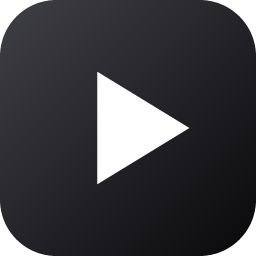
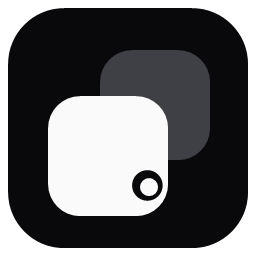
v7.0.7: one client at a time, Chrome app window, check-ban window
- one Roblox client at a time: multi-instance is forced off (it held the Roblox lock and let extra clients start)
- manager window runs in Chrome (Edge as fallback) in its own profile; the stale-window cleanup only touches that profile
- black title bar on the manager window (DWM caption), re-applied while the window lives
- Check ban button: one separate login window, nothing added to the list; refuses while another login window is open
- sidebar reads "Roblox installed" (install detection, not "running")
- new icon for the exe and the tab
- stats and table skip redraws when nothing changed, and pause while the window is minimized

Claude-Session: https://claude.ai/code/session_01BRhqfRxeUgekckbC3yuMAz

diff --git a/public/app.js b/public/app.js
@@ -223,8 +223,8 @@ function connect() {
 }
 call('/ui/logs').then((l) => logs.push(...l)).catch(() => {});
 connect();
-setInterval(() => { if (S && !S.locked) { renderStats(); renderAfk(); } }, 1000);
-setInterval(() => { if (S && !S.locked) renderTable(); }, 10000);
+setInterval(() => { if (S && !S.locked && !document.hidden) { renderStats(); renderAfk(); } }, 1000);
+setInterval(() => { if (S && !S.locked && !document.hidden) renderTable(); }, 10000);
 
 function render() {
   $('#lock').classList.toggle('hidden', !S.locked);
@@ -266,12 +266,20 @@ function renderNav() {
 
 function renderSide() {
   const m = S.launcher.multi;
-  const multi = !m || !m.wanted ? ['', 'Multi-instance off'] : m.mutex === 'held' ? ['ok', 'Multi-instance active'] : ['warn', 'Multi-instance waiting'];
+  const multi = ['ok', 'One client at a time'];
   const wd = S.settings.watchdog.enabled;
   $('#side-status').innerHTML = `
     <div class="row" title="${esc(m && m.mutex !== 'held' && m.wanted ? 'A Roblox client started outside the manager owns the lock. Close all Roblox windows once.' : '')}"><span class="dot ${multi[0]}"></span>${multi[1]}</div>
-    <div class="row"><span class="dot ${S.roblox ? 'ok' : 'err'}"></span>${S.roblox ? 'Roblox detected' : 'Roblox not found'}</div>
+    <div class="row"><span class="dot ${S.roblox ? 'ok' : 'err'}"></span>${S.roblox ? 'Roblox installed' : 'Roblox not found'}</div>
     <div class="row"><span class="dot ${wd ? 'ok' : ''}"></span>Watchdog ${wd ? 'on' : 'paused'}</div>`;
+}
+
+// Skip innerHTML when the markup did not change, so rows keep hover, focus and selection across the 1 s / 10 s refresh.
+const htmlCache = new Map();
+function setHtml(sel, html) {
+  if (htmlCache.get(sel) === html) return;
+  htmlCache.set(sel, html);
+  document.querySelector(sel).innerHTML = html;
 }
 
 function renderStats() {
@@ -299,7 +307,8 @@ function renderStats() {
   const t = `${inst.length ? `(${inst.length}) ` : ''}Isa's Roblox Account Manager`;
   if (document.title !== t) document.title = t;
   renderQueueBanner();
-  $('#stats').innerHTML = cards.map(([ic, l, v, h]) => `<div class="stat"><div class="label">${icon(ic)}${l}</div><div class="val">${v}</div><div class="hint">${h}</div></div>`).join('');
+  $('#btn-check-ban').disabled = (S.browsers || []).some((b) => b.kind === 'login');
+  setHtml('#stats', cards.map(([ic, l, v, h]) => `<div class="stat"><div class="label">${icon(ic)}${l}</div><div class="val">${v}</div><div class="hint">${h}</div></div>`).join(''));
 }
 
 // ============================================================ accounts table
@@ -390,9 +399,9 @@ function renderTable() {
         <button class="btn icon sm" data-row="menu" title="More">${icon('more')}</button></div></td>
     </tr>`;
   }).join('');
-  $('#acc-table tbody').innerHTML = rows || (S.accounts.length
+  setHtml('#acc-table tbody', rows || (S.accounts.length
     ? '<tr><td colspan="8"><div class="empty">No accounts match this filter.</div></td></tr>'
-    : `<tr><td colspan="8"><div class="empty"><b>No accounts yet</b>Click <b style="display:inline">Add account</b> to log in through a browser window or import cookies.</div></td></tr>`);
+    : `<tr><td colspan="8"><div class="empty"><b>No accounts yet</b>Click <b style="display:inline">Add account</b> to log in through a browser window or import cookies.</div></td></tr>`));
   $('#sel-all').checked = list.length > 0 && list.every((a) => selected.has(a.id));
   store.set('selected', [...selected]);
 }
@@ -663,6 +672,10 @@ bind($('#btn-ka-on'), () => ACT.keepAlive(needSel(), true));
 bind($('#btn-ka-off'), () => ACT.keepAlive(needSel(), false));
 bind($('#btn-validate'), () => ACT.validate(selIds()));
 // Cookie checker: validate cookies without adding them
+bind($('#btn-check-ban'), async () => {
+  const r = await call('/ui/accounts/check-login', {});
+  if (r && r.busy) toast('info', 'A check or login window is already open. Finish or close it first.');
+});
 bind($('#btn-check'), async () => {
   const d = openDialog(`<h2>Check cookies</h2><p class="lead">Paste cookies (one per line, any format that contains a .ROBLOSECURITY value). Nothing is saved unless you click Import.</p>
     <textarea id="cc-text" rows="6" placeholder="_|WARNING:-DO-NOT-SHARE-THIS..."></textarea><div id="cc-res"></div>
@@ -1002,7 +1015,6 @@ function openCaptchaTest() {
 let settingsDirty = false;
 const SETTINGS = [
   ['Launching', 'play', [
-    ['multiInstance', 'bool', 'Multi-instance', 'Run many Roblox clients at once'],
     ['launchDelaySec', 'num', 'Delay between launches (seconds)', 'Roblox throttles rapid joins; 5–10 s is safest'],
     ['launchTimeoutSec', 'num', 'Wait for client to start (seconds)'],
     ['onAlreadyRunning', [['replace', 'Close the old client first'], ['skip', 'Skip that account'], ['allow', 'Allow a second client']], 'If an account is already running', 'Roblox kicks duplicate sessions, so "close old" is recommended'],
@@ -1083,7 +1095,6 @@ const SETTINGS = [
 // Only the ones the code actually acts on are listed; none of them is proven to be the cause of the main PC problem.
 const RISK = {
   neverUpdateRoblox: 'Suspected cause: every 20 s it force-closes Roblox updater processes and renames updater files in Roblox version folders. Turn it off first if the PC keeps closing things.',
-  multiInstance: 'Can cause strain: many clients at once use more GPU, RAM and CPU. Suspected of contributing on the main PC.',
   onAlreadyRunning: 'Can cause closes: "Close the old client first" force-closes the running client, and any executor attached to it closes with it.',
   clientPriority: 'Can cause freezes: a lower CPU priority can starve Roblox and any executor attached to it. Suspected of contributing.',
   trimMemoryMin: 'Can cause crashes: emptying a client memory can break injected executors and makes Roblox page memory back in. Suspected of contributing; keep at 0.',
@@ -1122,7 +1133,7 @@ function renderSettings() {
       <div class="btn-row"><button class="btn" type="button" id="btn-mp">${S.vaultMode === 'scrypt' ? 'Change / remove password' : 'Set master password'}</button></div>
     </div>
     <div class="card"><h3>${icon('power')}App</h3>
-      <p class="small muted" style="margin-top:0">"Start Manager.vbs" (or the desktop shortcut) runs the manager without a console window. Quitting never closes your Roblox clients; multi-instance stays protected until they are all closed.</p>
+      <p class="small muted" style="margin-top:0">"Start Manager.vbs" (or the desktop shortcut) runs the manager without a console window. Quitting never closes your Roblox clients. Only one Roblox client runs at a time, so two accounts are never signed in together.</p>
       <div class="btn-row"><button class="btn" type="button" id="btn-shortcut">Create desktop shortcut</button><button class="btn" type="button" id="btn-test-alert">${icon('bell')}Send test alert</button><button class="btn" type="button" id="btn-captcha-test">CAPTCHA simulator</button></div>
     </div>
     <div class="card"><h3>${icon('server')}API reference</h3><div class="small muted">Base: <span class="mono">${esc(S.apiUrl)}</span><br>

diff --git a/src/main.js b/src/main.js
@@ -24,17 +24,17 @@ const noUi = process.argv.includes('--no-ui');
 function alive(pid) { try { process.kill(pid, 0); return true; } catch (e) { return e.code === 'EPERM'; } }
 
 /**
- * Kill any existing Edge app-mode windows pointing to our local server so the
+ * Kill the Edge app window left over from an earlier run (matched by its own profile, never the user's Edge) so the
  * next openUi call always opens a fresh window at the correct URL and token.
  * Edge app-mode reuses windows by origin (scheme+host+port); if the manager
  * restarts on the same port with a new token, Edge would otherwise focus the
  * stale window and show "not found".
  */
-function killStaleEdgeAppWindows() {
+function killStaleEdgeAppWindows(profile) {
   try {
     execFileSync('powershell.exe', [
       '-NoProfile', '-NonInteractive', '-Command',
-      "Get-CimInstance Win32_Process -Filter \"Name='msedge.exe'\" | Where-Object { $_.CommandLine -like '*--app=http://127.0.0.1:*' } | ForEach-Object { Stop-Process -Id $_.ProcessId -Force -ErrorAction SilentlyContinue }",
+      `Get-CimInstance Win32_Process | Where-Object { $_.CommandLine -like '*--user-data-dir=${profile}*' } | ForEach-Object { Stop-Process -Id $_.ProcessId -Force -ErrorAction SilentlyContinue }`,
     ], { windowsHide: true, stdio: 'ignore', timeout: 5000 });
   } catch { /* ignore — no stale windows, or PowerShell unavailable */ }
 }
@@ -42,10 +42,14 @@ function killStaleEdgeAppWindows() {
 function openUi(url, settings) {
   const edge = findBrowser(settings.get('browserPath'));
   if (edge) {
-    // Kill stale app-mode window for this origin first so Edge opens fresh at the new URL.
-    killStaleEdgeAppWindows();
-    // app-mode window = looks like a desktop app, separate from normal browsing
-    spawn(edge, [`--app=${url}`, '--window-size=1400,900'], { detached: true, stdio: 'ignore' }).unref();
+    // The manager's window lives in its own Edge profile: a stale one is killed by profile, and the user's own
+    // Edge windows are never touched.
+    const profile = path.join(DATA, 'edge-app');
+    killStaleEdgeAppWindows(profile);
+    spawn(edge, [`--user-data-dir=${profile}`, `--app=${url}`, '--window-size=1400,900', '--no-first-run', '--no-default-browser-check'], { detached: true, stdio: 'ignore' }).unref();
+    // Edge app windows keep the light caption; paint it black once the window exists (Windows only, best effort).
+    const tb = path.join(ROOT, 'src', 'titlebar.ps1');
+    if (fs.existsSync(tb)) spawn('powershell.exe', ['-NoProfile', '-NonInteractive', '-WindowStyle', 'Hidden', '-ExecutionPolicy', 'Bypass', '-File', tb], { stdio: 'ignore', windowsHide: true }).unref();
   } else {
     spawn('rundll32.exe', ['url.dll,FileProtocolHandler', url], { detached: true, stdio: 'ignore' }).unref();
   }

diff --git a/test/one-client.test.js b/test/one-client.test.js
@@ -1,0 +1,45 @@
+'use strict';
+const os = require('os');
+const path = require('path');
+const fs = require('fs');
+process.env.IRAM_DATA_DIR = fs.mkdtempSync(path.join(os.tmpdir(), 'iram-one-client-'));
+
+const test = require('node:test');
+const assert = require('node:assert');
+const EventEmitter = require('events');
+const { Launcher } = require('../src/launcher');
+const { DEFAULTS } = require('../src/settings');
+
+function setup(procs) {
+  const settings = new EventEmitter();
+  const cfg = { ...DEFAULTS, multiInstance: true, renameWindows: false };
+  settings.get = (k) => (k ? cfg[k] : cfg);
+  const accounts = new EventEmitter();
+  Object.assign(accounts, { list: [], loaded: true, get: () => null, save() {}, session: () => ({}) });
+  const helper = { procs, call: async () => 0 };
+  const l = new Launcher({ helper, settings, accounts });
+  l.clientWaitMs = 1500;
+  return l;
+}
+
+test('one client at a time: a launch is allowed when no client is running', async () => {
+  const l = setup(async () => []);
+  await l.assertNoOtherClient();
+});
+
+test('one client at a time: a second launch is refused while a client is running', async () => {
+  const l = setup(async () => [{ pid: 4242, title: 'Roblox' }]);
+  await assert.rejects(l.assertNoOtherClient(), /Another Roblox client is still running/);
+});
+
+test('one client at a time: a closing client gets a short wait, then the launch goes ahead', async () => {
+  let reads = 0;
+  const l = setup(async () => (++reads < 3 ? [{ pid: 4242 }] : []));
+  await l.assertNoOtherClient();
+  assert.ok(reads >= 3);
+});
+
+test('one client at a time: a launch is refused when the process list cannot be read', async () => {
+  const l = setup(async () => { throw new Error('helper down'); });
+  await assert.rejects(l.assertNoOtherClient(), /Could not read the running Roblox processes/);
+});

diff --git a/src/server.js b/src/server.js
@@ -255,6 +255,31 @@ class Server {
       return { started: entries.length };
     });
 
+    // Check window: log into one account in a separate window and see whether it is banned. Nothing is added to the
+    // list. One check (or other login window) at a time.
+    let checkOpen = false;
+    this.route('POST', '/ui/accounts/check-login', () => {
+      if (checkOpen || c.browser.list().some((b) => b.kind === 'login')) return { started: false, busy: true };
+      checkOpen = true;
+      (async () => {
+        try {
+          this.toast('info', 'Check window opened. Log in there and the result shows here. Nothing is added to your list.');
+          const cookie = await c.browser.login({ timeoutMin: 10 });
+          const [row] = await c.accounts.checkCookies(cookie);
+          if (!row || !row.valid) this.toast('error', `Check failed: ${row?.error || 'no session'}`);
+          else {
+            const where = row.known ? 'already in your list' : 'not in your list';
+            if (row.status === 'banned') this.toast('error', `${row.username} is BANNED (${where})`);
+            else if (row.status === 'restricted') this.toast('error', `${row.username} is restricted (${where})`);
+            else if (row.status === 'needs verification') this.toast('error', `${row.username} needs verification (${where})`);
+            else this.toast('ok', `${row.username} is not banned (${where})`);
+          }
+        } catch (e) {
+          this.toast('error', `Check window: ${e.message}`);
+        } finally { checkOpen = false; }
+      })();
+      return { started: true };
+    });
     this.route('POST', '/ui/accounts/:id/update', ({ params, body }) => c.accounts.publicView(c.accounts.update(acc(params.id).id, body)));
     this.route('POST', '/ui/accounts/delete', ({ body }) => {
       const list = ids(body);

diff --git a/src/launcher.js b/src/launcher.js
@@ -568,6 +568,24 @@ class Launcher extends EventEmitter {
   }
 
   /** Queue a launch. Launches run one at a time so process<->account mapping is unambiguous. */
+  /**
+   * Hard limit: one Roblox client at a time, whatever started it. Two clients signed in at once is what gets
+   * accounts moderated, so this never lets a second client start. A client that is closing gets a short wait;
+   * if one is still running after that, the launch is refused. If the process list can't be read, it is refused too.
+   */
+  async assertNoOtherClient() {
+    const deadline = Date.now() + (this.clientWaitMs ?? 15000);
+    for (;;) {
+      const running = await this.helper.procs().catch(() => null);
+      if (running === null) throw new Error('Could not read the running Roblox processes, so this launch was not started.');
+      if (running.length === 0) return;
+      if (Date.now() >= deadline) {
+        throw new Error(`Another Roblox client is still running (${running.length}). The manager allows one client at a time, so close it first.`);
+      }
+      await sleep(500);
+    }
+  }
+
   launch(accountId, target, reason = 'manual', opts = {}) {
     if (this.pending.has(accountId)) return this.pending.get(accountId);
     if (['manual', 'rejoin', 'restart', 'hop'].includes(reason)) this.holds.delete(accountId); // only a person asking lifts a stop/cancel hold
@@ -663,6 +681,7 @@ class Launcher extends EventEmitter {
       if (rbx.testBuild) setUpdatersBlocked(true, [{ dir: path.dirname(rbx.path) }]);
     }
 
+    await this.assertNoOtherClient();
     // Read the process list before minting the ticket, not between minting and launching: a slow helper
     // call in between would leave the ticket stale by the time the client redeems it.
     const before = new Set((await this.helper.procs()).map((p) => p.pid));

diff --git a/src/settings.js b/src/settings.js
@@ -15,7 +15,7 @@ const DEFAULTS = {
   presencePollSec: 30,         // live presence for all accounts; 0 = off
 
   // launching
-  multiInstance: true,
+  multiInstance: false,        // never on: the manager runs one Roblox client at a time (one-client guard in launcher.js)
   launchDelaySec: 6,           // gap between consecutive launches (Roblox rate-limits rapid joins)
   launchTimeoutSec: 90,        // how long to wait for the Roblox process to appear
   onAlreadyRunning: 'skip',    // 'replace' | 'skip' | 'allow'. 'replace' closes the running client (and any executor in it)
@@ -99,6 +99,7 @@ class Settings extends EventEmitter {
     super();
     const saved = readJson(FILE, {});
     this.data = deepMerge(DEFAULTS, saved);
+    this.data.multiInstance = false; // a saved "true" from an older version must not hold the Roblox multi-instance lock
     if ((saved.settingsVersion || 0) < SETTINGS_VERSION) {
       // one-time: installs saved before the safe defaults move onto them. Accounts, alerts and the
       // other preferences are kept; only settings that can close clients or upset the display change.
@@ -113,6 +114,7 @@ class Settings extends EventEmitter {
   get(k) { return k ? this.data[k] : this.data; }
   update(patch) {
     const next = deepMerge(this.data, patch || {});
+    next.multiInstance = false;
     // sanitize numeric fields
     const num = (v, d, min, max) => { const n = Number(v); return Number.isFinite(n) ? Math.min(max, Math.max(min, n)) : d; };
     next.port = num(next.port, 7963, 1024, 65535);

diff --git a/src/browser.js b/src/browser.js
@@ -51,12 +51,13 @@ function findBrowser(override) {
   const pf = process.env.ProgramFiles || 'C:\\Program Files';
   const pf86 = process.env['ProgramFiles(x86)'] || 'C:\\Program Files (x86)';
   const la = process.env.LOCALAPPDATA || '';
+  // Chrome first: the manager window and the check / login windows run on it. Edge and Brave are fallbacks.
   const cands = [
-    path.join(pf86, 'Microsoft', 'Edge', 'Application', 'msedge.exe'),
-    path.join(pf, 'Microsoft', 'Edge', 'Application', 'msedge.exe'),
     path.join(pf, 'Google', 'Chrome', 'Application', 'chrome.exe'),
     path.join(pf86, 'Google', 'Chrome', 'Application', 'chrome.exe'),
     path.join(la, 'Google', 'Chrome', 'Application', 'chrome.exe'),
+    path.join(pf86, 'Microsoft', 'Edge', 'Application', 'msedge.exe'),
+    path.join(pf, 'Microsoft', 'Edge', 'Application', 'msedge.exe'),
     path.join(pf, 'BraveSoftware', 'Brave-Browser', 'Application', 'brave.exe'),
   ];
   return cands.find((c) => fs.existsSync(c)) || null;

diff --git a/public/index.html b/public/index.html
@@ -38,6 +38,7 @@
             <div class="spacer"></div>
             <button class="btn ghost icon" id="btn-density" title="Compact rows (for many accounts)"><svg class="i" data-icon="list"></svg></button>
             <button class="btn ghost" id="btn-check" title="Check cookies without adding them: valid, created, Robux, banned"><svg class="i" data-icon="shield"></svg>Check cookies</button>
+            <button class="btn ghost" id="btn-check-ban" title="Log into one account in a separate window to see if it is banned. Nothing is added. One at a time."><svg class="i" data-icon="search"></svg>Check ban</button>
             <button class="btn ghost" id="btn-validate" title="Re-check cookies, bans and Robux"><svg class="i" data-icon="check"></svg>Validate</button>
             <button class="btn primary" id="btn-add"><svg class="i" data-icon="plus"></svg>Add account</button>
           </div>
